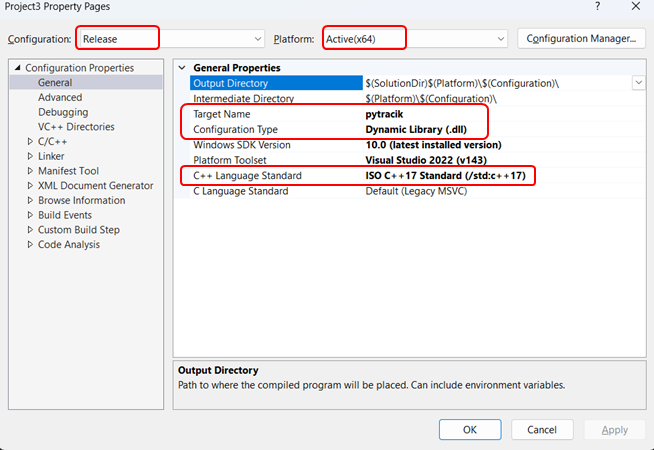
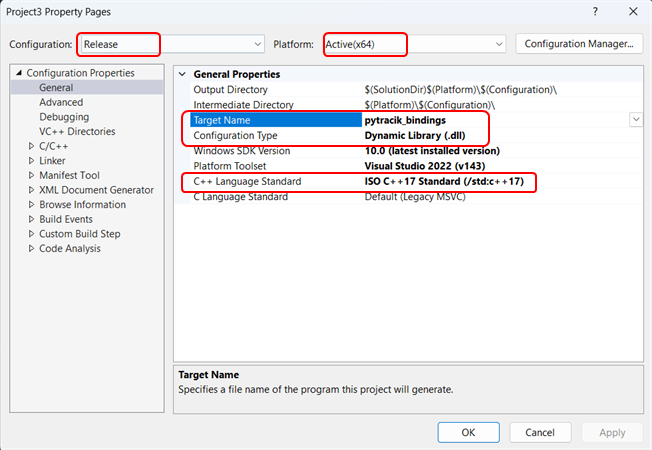
__version__ = '0.0.1'

diff --git a/pytracik/trac_ik.py b/pytracik/trac_ik.py
@@ -8,7 +8,7 @@ from pathlib import Path
 from typing import Literal
 
 import numpy as np
-from . import pytracik as pytracik
+from . import pytracik_bindings as pytracik_bindings
 
 np.array([0, 0, 0, 0, ])
 
@@ -85,13 +85,13 @@ class TracIK(object):
             the param server at /robot_description.
         """
         if solver_type == "Speed":
-            _solve_type = pytracik.SolveType.Speed
+            _solve_type = pytracik_bindings.SolveType.Speed
         elif solver_type == "Distance":
-            _solve_type = pytracik.SolveType.Distance
+            _solve_type = pytracik_bindings.SolveType.Distance
         elif solver_type == "Manip1":
-            _solve_type = pytracik.SolveType.Manip1
+            _solve_type = pytracik_bindings.SolveType.Manip1
         elif solver_type == "Manip2":
-            _solve_type = pytracik.SolveType.Manip2
+            _solve_type = pytracik_bindings.SolveType.Manip2
         else:
             raise ValueError(f"Unsupported solver type: {solver_type}")
 
@@ -106,12 +106,12 @@ class TracIK(object):
         self._solve_type = _solve_type
         self.base_link_name = base_link_name
         self.tip_link_name = tip_link_name
-        self._ik_solver = pytracik.TRAC_IK(self.base_link_name,
-                                           self.tip_link_name,
-                                           self._urdf_string,
-                                           self._timeout,
-                                           self._epsilon,
-                                           self._solve_type)
+        self._ik_solver = pytracik_bindings.TRAC_IK(self.base_link_name,
+                                                    self.tip_link_name,
+                                                    self._urdf_string,
+                                                    self._timeout,
+                                                    self._epsilon,
+                                                    self._solve_type)
 
     @property
     def dof(self) -> int:
@@ -119,7 +119,7 @@ class TracIK(object):
         Get the number of joints in the chain.
         :return:  Number of joints in the chain.
         """
-        return pytracik.get_num_joints(self._ik_solver, self.base_link_name, self.tip_link_name)
+        return pytracik_bindings.get_num_joints(self._ik_solver, self.base_link_name, self.tip_link_name)
 
     def solve(self,
               tgt_pos: np.ndarray,
@@ -134,7 +134,7 @@ class TracIK(object):
         """
 
         qw, qx, qy, qz = quaternion_from_matrix(tgt_rot)
-        r = pytracik.solve(self._ik_solver, seed_jnt_values, tgt_pos[0], tgt_pos[1], tgt_pos[2], qx, qy, qz, qw)
+        r = pytracik_bindings.solve(self._ik_solver, seed_jnt_values, tgt_pos[0], tgt_pos[1], tgt_pos[2], qx, qy, qz, qw)
         succ = r[0]
         if succ:
             return r[1:]

diff --git a/src/pybind_trac_ik.cpp b/src/pybind_trac_ik.cpp
@@ -55,7 +55,7 @@ int getNrOfJointsInChain(TRAC_IK::TRAC_IK& t, std::string base, std::string tip)
 }
 
 
-PYBIND11_MODULE(pytracik, m) {
+PYBIND11_MODULE(pytracik_bindings, m) {
 	py::class_<TRAC_IK::TRAC_IK>(m, "TRAC_IK")
 		.def(py::init<std::string, std::string, std::string, double, double, TRAC_IK::SolveType>())
 		.def("cart_to_jnt", &TRAC_IK::TRAC_IK::CartToJnt);

diff --git a/README.md b/README.md
@@ -84,7 +84,7 @@ TODO: Finishthe installation instructions
    
    c.  Right click the project and select `Properties`. 
       - Set the `Configuration` to `Release` and `Platform` to `Active (x64)`
-      - In the `Configuration Properites/General` tab, set the `Target Name` to `pytracik`.
+      - In the `Configuration Properites/General` tab, set the `Target Name` to `pytracik_bindings`.
       - Set the `Configuration Type` to `Dynamic Library (.dll)`.
       - Set C++ language standard to `ISO C++17 Standard (/std:c++17)`.
 
